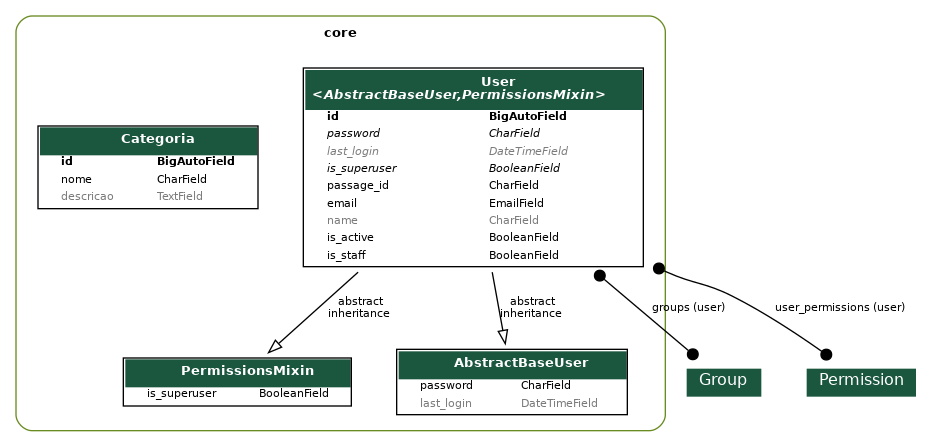
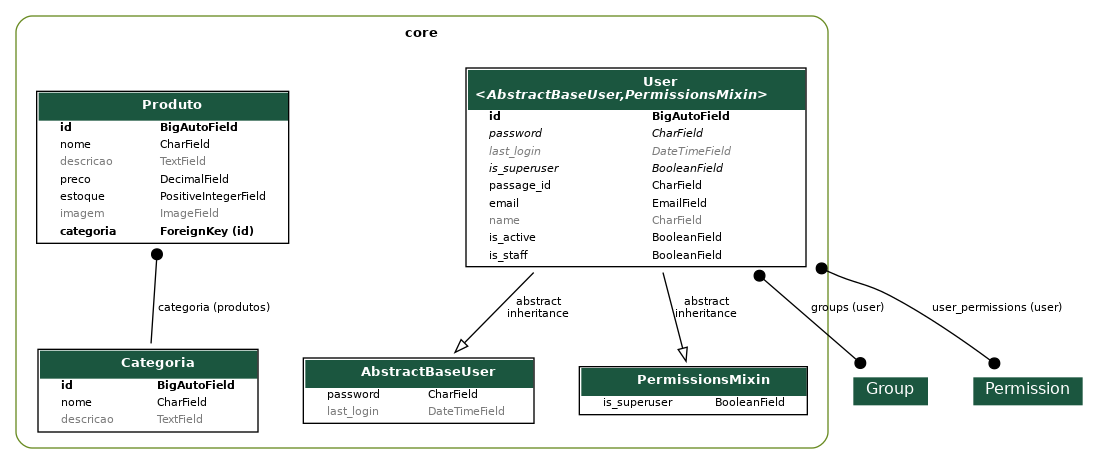
feat: Criação da API Produto

Changed region(s): [[0.0, 0.0291, 0.9957, 0.9888], [0.1245, 0.6398, 0.2489, 0.698]]

diff --git a/core/migrations/0006_produto.py b/core/migrations/0006_produto.py
@@ -1,0 +1,26 @@
+# Generated by Django 5.1.7 on 2025-06-13 11:12
+
+import django.db.models.deletion
+from django.db import migrations, models
+
+
+class Migration(migrations.Migration):
+
+    dependencies = [
+        ('core', '0005_categoria'),
+    ]
+
+    operations = [
+        migrations.CreateModel(
+            name='Produto',
+            fields=[
+                ('id', models.BigAutoField(auto_created=True, primary_key=True, serialize=False, verbose_name='ID')),
+                ('nome', models.CharField(max_length=100)),
+                ('descricao', models.TextField(blank=True)),
+                ('preco', models.DecimalField(decimal_places=2, max_digits=10)),
+                ('estoque', models.PositiveIntegerField()),
+                ('imagem', models.ImageField(blank=True, null=True, upload_to='produtos/')),
+                ('categoria', models.ForeignKey(on_delete=django.db.models.deletion.PROTECT, related_name='produtos', to='core.categoria')),
+            ],
+        ),
+    ]

diff --git a/core/models/produto.py b/core/models/produto.py
@@ -1,0 +1,13 @@
+from django.db import models
+from .categoria import Categoria
+
+class Produto(models.Model):
+    nome = models.CharField(max_length=100)
+    descricao = models.TextField(blank=True)
+    preco = models.DecimalField(max_digits=10, decimal_places=2)
+    estoque = models.PositiveIntegerField()
+    imagem = models.ImageField(upload_to='produtos/', blank=True, null=True)
+    categoria = models.ForeignKey(Categoria, on_delete=models.PROTECT, related_name="produtos")
+
+    def __str__(self):
+        return self.nome

diff --git a/app/urls.py b/app/urls.py
@@ -7,12 +7,13 @@ from drf_spectacular.views import (
 )
 from rest_framework.routers import DefaultRouter
 
-from core.views import UserViewSet, CategoriaViewSet
+from core.views import UserViewSet, CategoriaViewSet, ProdutoViewSet
 
 router = DefaultRouter()
 
 router.register(r'usuarios', UserViewSet, basename='usuarios')
 router.register(r'categorias', CategoriaViewSet, basename='categorias')
+router.register(r'produtos', ProdutoViewSet, basename='produtos')
 
 urlpatterns = [
     path('admin/', admin.site.urls),

diff --git a/core/views/produto.py b/core/views/produto.py
@@ -1,0 +1,7 @@
+from rest_framework.viewsets import ModelViewSet
+from core.models import Produto
+from core.serializers import ProdutoSerializer
+
+class ProdutoViewSet(ModelViewSet):
+    queryset = Produto.objects.all()
+    serializer_class = ProdutoSerializer

diff --git a/core/serializers/produto.py b/core/serializers/produto.py
@@ -1,0 +1,7 @@
+from rest_framework.serializers import ModelSerializer
+from core.models import Produto
+
+class ProdutoSerializer(ModelSerializer):
+    class Meta:
+        model = Produto
+        fields = "__all__"

diff --git a/core/admin.py b/core/admin.py
@@ -52,3 +52,5 @@ class UserAdmin(BaseUserAdmin):
 
 
 admin.site.register(models.User, UserAdmin)
+admin.site.register(models.Categoria)
+admin.site.register(models.Produto)

diff --git a/core/serializers/__init__.py b/core/serializers/__init__.py
@@ -1,2 +1,3 @@
 from .user import UserSerializer
 from .categoria import CategoriaSerializer
+from .produto import ProdutoSerializer

diff --git a/core/views/__init__.py b/core/views/__init__.py
@@ -1,2 +1,3 @@
 from .user import UserViewSet
 from .categoria import CategoriaViewSet
+from .produto import ProdutoViewSet

diff --git a/core/models/__init__.py b/core/models/__init__.py
@@ -1,2 +1,3 @@
 from .user import User
 from .categoria import Categoria
+from .produto import Produto
